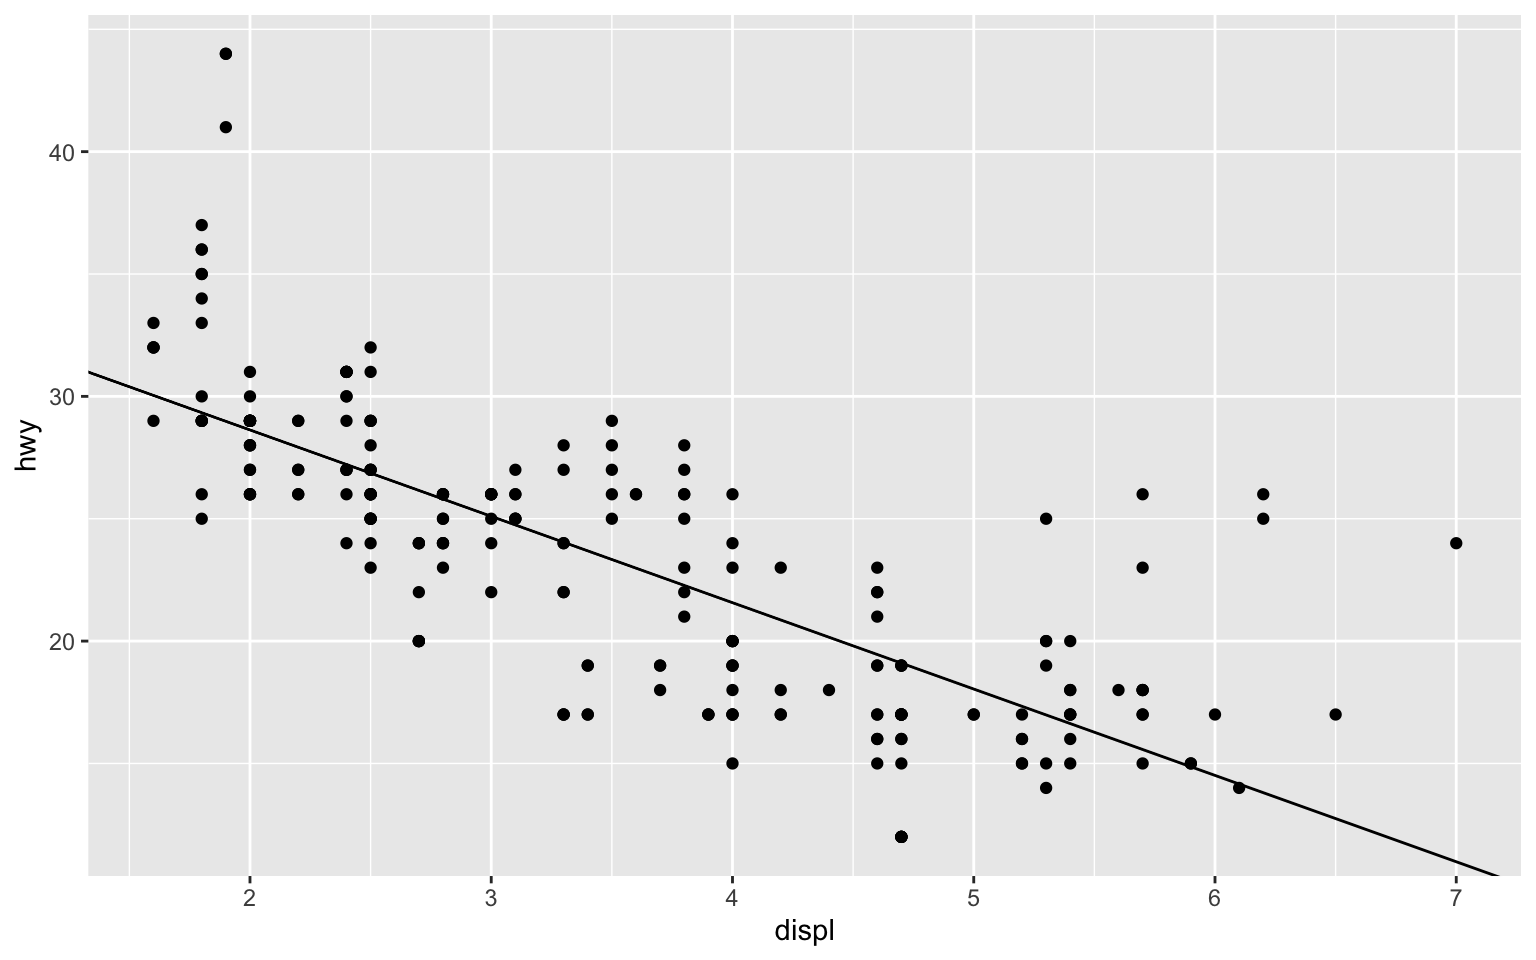
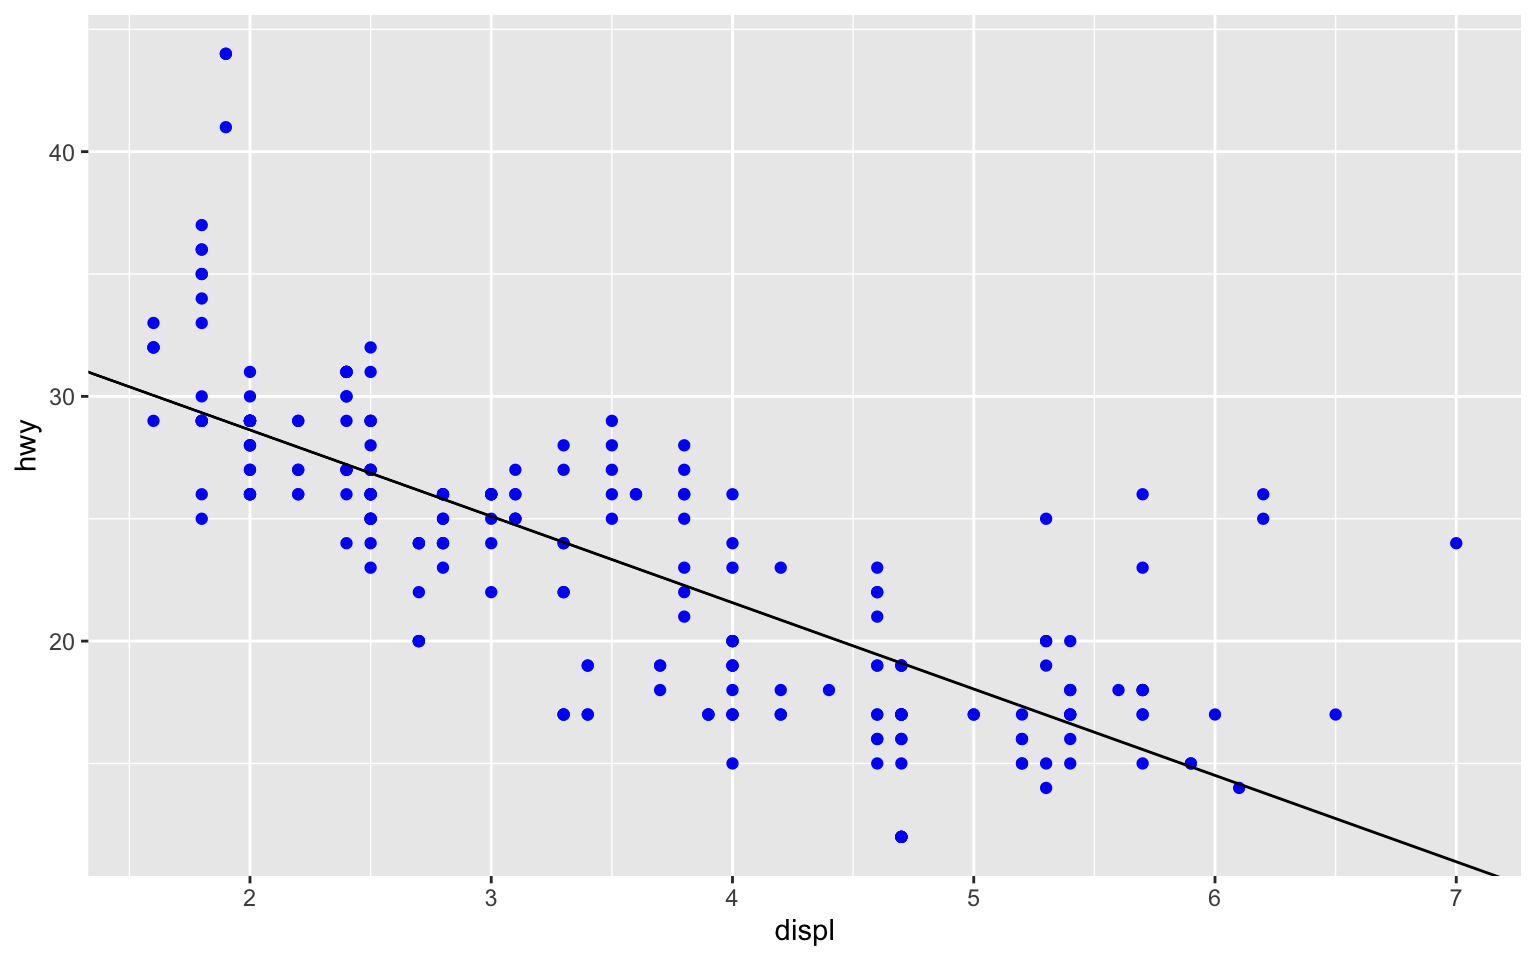
Updated

diff --git a/Week3.html b/Week3.html
@@ -352,12 +352,12 @@ class="uri">https://github.com/rstudio/cheatsheets/blob/main/data-visualization-
 <pre class="r"><code>library(tidyverse)</code></pre>
 <p>An Example</p>
 <pre class="r"><code>f = lm(hwy~displ, data = mpg)
-ggplot(data = mpg) + 
-  geom_point(mapping = aes(x = displ, y = hwy))</code></pre>
+ggplot(data = mpg, mapping = aes(x = displ, y = hwy)) + 
+  geom_point()</code></pre>
 <p><img src="Week3_files/figure-html/unnamed-chunk-2-1.png" width="768" style="display: block; margin: auto;" /></p>
 <p>Add one more layer (the line)</p>
-<pre class="r"><code>ggplot(data = mpg) + 
-  geom_point(mapping = aes(x = displ, y = hwy)) +
+<pre class="r"><code>ggplot(data = mpg, mapping = aes(x = displ, y = hwy)) + 
+  geom_point(color = &quot;blue&quot;) +
   geom_abline(slope = f$coef[2], intercept = f$coef[1])</code></pre>
 <p><img src="Week3_files/figure-html/unnamed-chunk-3-1.png" width="768" style="display: block; margin: auto;" /></p>
 </div>
